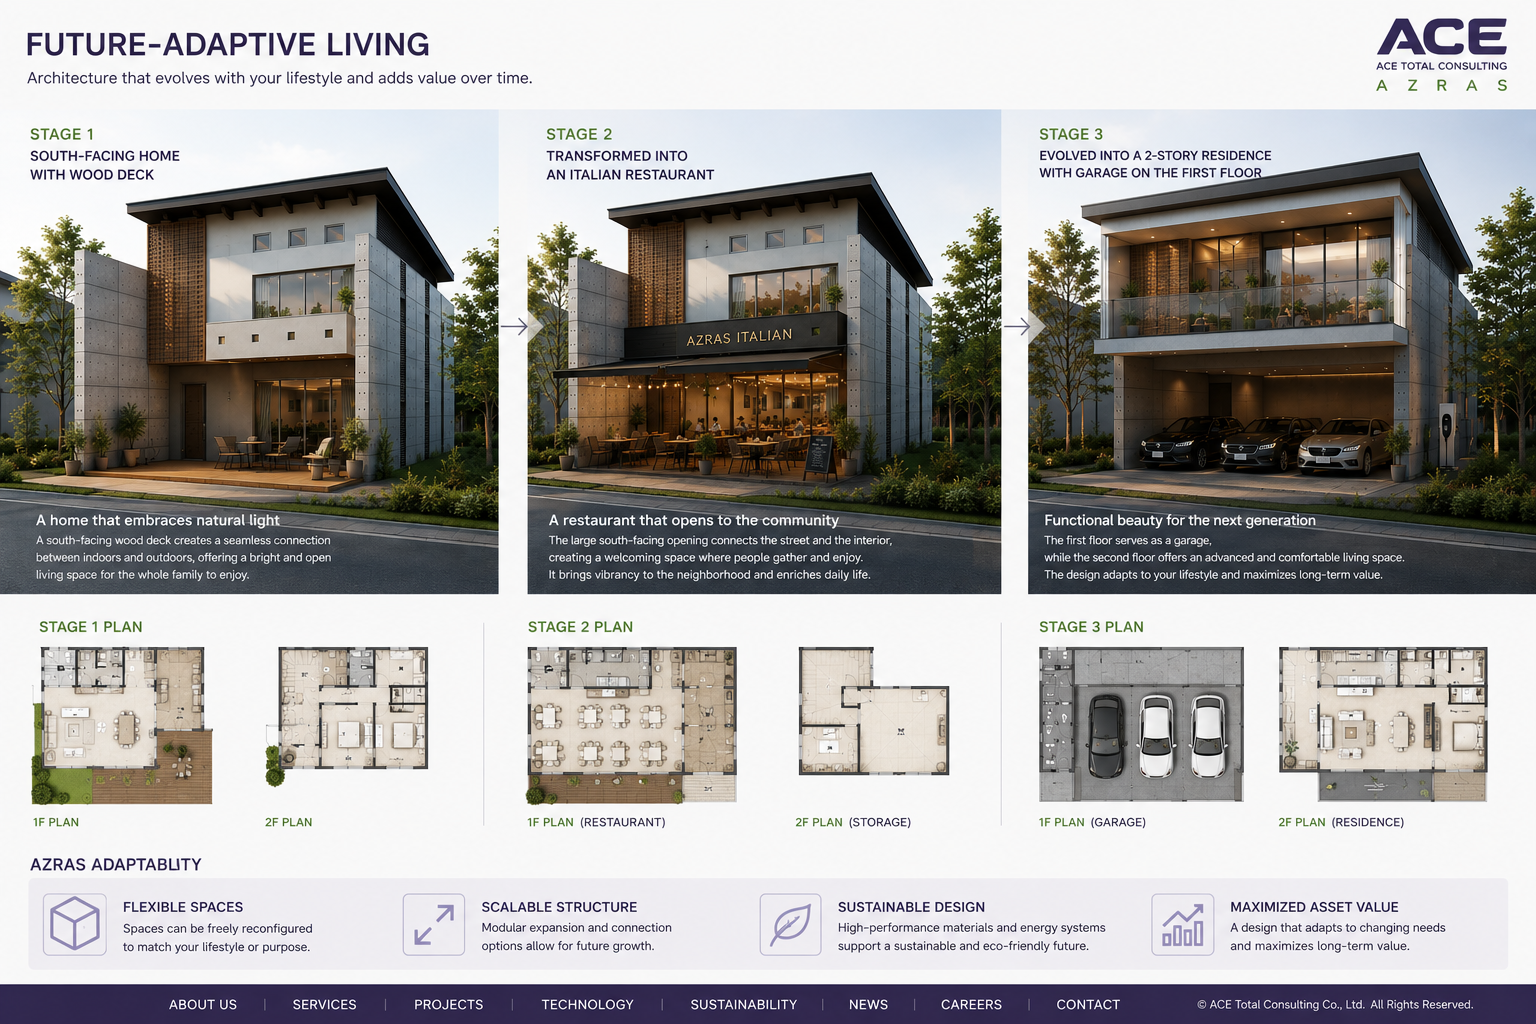
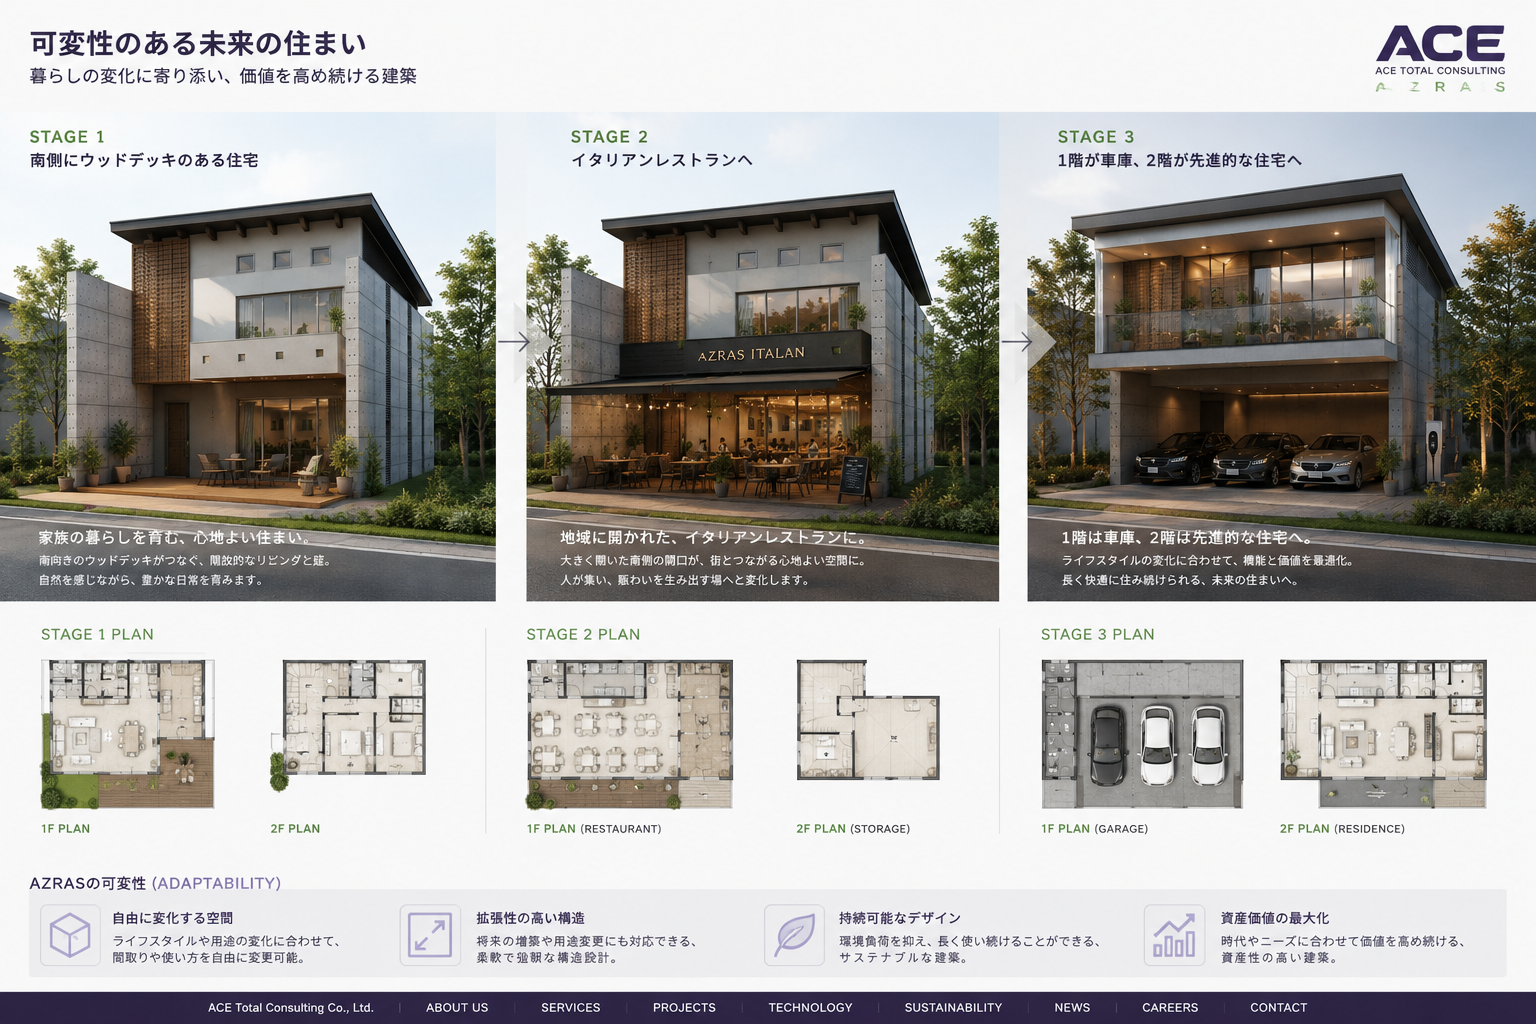
Add files via upload

diff --git a/index.html b/index.html
@@ -3,89 +3,138 @@
 <head>
   <meta charset="utf-8" />
   <meta name="viewport" content="width=device-width, initial-scale=1" />
-  <title>ACE Total Consulting | AZRAS</title>
-  <meta name="description" content="ACE Total Consulting introduces AZRAS: Open-Core Architecture · Adaptive Zero-Rebuild Asset System." />
+  <title>ACE Comprehensive Consulting | AZRAS</title>
+  <meta name="description" content="ACE Comprehensive Consulting introduces AZRAS: Open-Core Architecture and Adaptive Zero-Rebuild Asset System." />
+  <meta property="og:title" content="ACE Comprehensive Consulting | AZRAS" />
+  <meta property="og:description" content="Designing the Future through architecture, construction, estate and energy consulting." />
+  <meta property="og:image" content="assets/hero-en.png" />
+  <link rel="preload" as="image" href="assets/hero-en.png" />
   <link rel="stylesheet" href="style.css" />
 </head>
 <body>
-  <header class="site-header">
-    <a class="brand" href="#top" aria-label="ACE Total Consulting home">
-      <img src="assets/ace-logo.jpg" alt="ACE" />
-      <span>ACE Total Consulting</span>
+  <header class="site-header" id="top">
+    <a class="brand" href="#top" aria-label="ACE Comprehensive Consulting home">
+      <img src="assets/ace-logo.jpg" alt="ACE logo" />
+      <span>ACE Comprehensive Consulting</span>
     </a>
-    <nav class="nav" aria-label="Main navigation">
+
+    <button class="menu-button" type="button" aria-label="Open menu" aria-controls="main-nav" aria-expanded="false">
+      <span></span><span></span><span></span>
+    </button>
+
+    <nav class="nav" id="main-nav" aria-label="Main navigation">
       <a href="#about" data-en="About" data-ja="会社概要">About</a>
+      <a href="#vision" data-en="Vision" data-ja="ビジョン">Vision</a>
       <a href="#azras" data-en="AZRAS" data-ja="AZRAS">AZRAS</a>
       <a href="#projects" data-en="Projects" data-ja="実績・構想">Projects</a>
       <a href="#documents" data-en="Documents" data-ja="資料">Documents</a>
       <a href="#contact" data-en="Contact" data-ja="お問い合わせ">Contact</a>
     </nav>
+
     <div class="lang-switch" aria-label="Language switch">
-      <button class="active" data-lang="en">EN</button>
-      <button data-lang="ja">JP</button>
+      <button class="active" data-lang="en" type="button">EN</button>
+      <button data-lang="ja" type="button">JP</button>
     </div>
   </header>
 
-  <main id="top">
+  <main>
     <section class="hero" aria-label="First view">
-      <picture>
-        <source media="(max-width: 760px)" srcset="assets/hero-en.png" id="hero-mobile-source" />
-        <img id="hero-image" src="assets/hero-en.png" alt="ACE Total Consulting first view" />
-      </picture>
-      <div class="hero-overlay">
-        <p class="eyebrow">AZRAS</p>
+      <img id="hero-image" src="assets/hero-en.png" alt="ACE Comprehensive Consulting first view" />
+      <div class="hero-copy">
+        <p class="eyebrow">ACE × AZRAS</p>
         <h1 data-en="Designing the Future." data-ja="未来を、設計する。">Designing the Future.</h1>
         <p data-en="We maximize sustainable society and asset value through the power of technology and design." data-ja="持続可能な社会と資産価値の最大化を、テクノロジーとデザインの力で実現します。">We maximize sustainable society and asset value through the power of technology and design.</p>
+        <div class="hero-actions">
+          <a class="button primary" href="#documents" data-en="View Documents" data-ja="資料を見る">View Documents</a>
+          <a class="button ghost" href="#azras" data-en="Explore AZRAS" data-ja="AZRASを見る">Explore AZRAS</a>
+        </div>
       </div>
     </section>
 
     <section class="section intro" id="about">
       <div>
         <p class="eyebrow" data-en="About ACE" data-ja="ACEについて">About ACE</p>
-        <h2 data-en="Architecture, construction, estate and energy — integrated as one strategy." data-ja="建築・建設・不動産・エネルギーを、ひとつの戦略として統合する。">Architecture, construction, estate and energy — integrated as one strategy.</h2>
+        <h2 data-en="Architecture, construction, real estate and energy — integrated as one strategy." data-ja="建築・建設・不動産・エネルギーを、ひとつの戦略として統合する。">Architecture, construction, real estate and energy — integrated as one strategy.</h2>
       </div>
-      <p data-en="ACE Total Consulting develops architectural concepts that preserve long-term asset value, adapt to changing lifestyles, and support resilient, sustainable communities." data-ja="ACE総合コンサルは、長期的な資産価値を守り、暮らしの変化に対応し、持続可能で強靭な社会に貢献する建築コンセプトを提案します。">ACE Total Consulting develops architectural concepts that preserve long-term asset value, adapt to changing lifestyles, and support resilient, sustainable communities.</p>
+      <div class="lead-box">
+        <p data-en="ACE Comprehensive Consulting provides architectural design supervision, construction, real estate consulting and energy consulting from a long-term asset-value perspective." data-ja="ACE総合コンサルは、建築設計監理・建設・不動産コンサルティング・エネルギーコンサルティングを、長期的な資産価値の視点から統合的に提案します。">ACE Comprehensive Consulting provides architectural design supervision, construction, real estate consulting and energy consulting from a long-term asset-value perspective.</p>
+        <dl>
+          <div><dt data-en="Company" data-ja="会社名">Company</dt><dd data-en="ACE Comprehensive Consulting Co., Ltd." data-ja="株式会社 ACE総合コンサル">ACE Comprehensive Consulting Co., Ltd.</dd></div>
+          <div><dt data-en="Location" data-ja="所在地">Location</dt><dd data-en="Kasugai City, Aichi, Japan" data-ja="日本国 愛知県春日井市">Kasugai City, Aichi, Japan</dd></div>
+          <div><dt data-en="Email" data-ja="メール">Email</dt><dd><a href="mailto:[email redacted]">[email redacted]</a></dd></div>
+        </dl>
+      </div>
     </section>
 
-    <section class="section cards" id="azras">
-      <article>
-        <h3 data-en="Open-Core Architecture" data-ja="オープンコア・アーキテクチャ">Open-Core Architecture</h3>
-        <p data-en="A durable RC core is separated from replaceable infill modules, allowing the building to evolve without full reconstruction." data-ja="耐久性の高いRCコアと交換可能なインフィルを分離し、全体の建て替えに頼らず建物を進化させます。">A durable RC core is separated from replaceable infill modules, allowing the building to evolve without full reconstruction.</p>
-      </article>
-      <article>
-        <h3 data-en="Adaptive Asset System" data-ja="可変する資産システム">Adaptive Asset System</h3>
-        <p data-en="Homes, restaurants, garages and next-generation residences can be planned as stages of one asset lifecycle." data-ja="住宅、レストラン、車庫付き先進住宅などを、ひとつの資産ライフサイクルとして計画できます。">Homes, restaurants, garages and next-generation residences can be planned as stages of one asset lifecycle.</p>
-      </article>
-      <article>
-        <h3 data-en="Sustainable Value" data-ja="持続する価値">Sustainable Value</h3>
-        <p data-en="Designed for long life, easier renewal, and international adaptation across urban and suburban markets." data-ja="長寿命化、更新の容易さ、海外市場への適応を見据えた建築システムです。">Designed for long life, easier renewal, and international adaptation across urban and suburban markets.</p>
-      </article>
+    <section class="section statement" id="vision">
+      <p class="eyebrow" data-en="Vision" data-ja="ビジョン">Vision</p>
+      <h2 data-en="Pioneering architecture for the era of AGI and Quantum Computing." data-ja="AI・量子コンピューター時代を生きる、未来の建築思想をカタチに。">Pioneering architecture for the era of AGI and Quantum Computing.</h2>
+      <p data-en="We propose and implement next-generation architectural philosophies to maximize long-term asset value and sustainable societies in the rapidly evolving age of advanced AI and quantum technology." data-ja="人工知能や量子技術がもたらす激変の時代において、次世代の建築思想を提案・実装し、持続可能な社会と色褪せない資産価値の最大化を追求します。">We propose and implement next-generation architectural philosophies to maximize long-term asset value and sustainable societies in the rapidly evolving age of advanced AI and quantum technology.</p>
     </section>
 
-    <section class="section" id="projects">
+    <section class="section" id="azras">
+      <div class="section-title">
+        <p class="eyebrow">AZRAS</p>
+        <h2 data-en="Open-Core Architecture · Adaptive Zero-Rebuild Asset System" data-ja="オープンコア・アーキテクチャ · 可変型ゼロ・リビルド資産システム">Open-Core Architecture · Adaptive Zero-Rebuild Asset System</h2>
+      </div>
+      <div class="cards">
+        <article>
+          <span class="card-number">01</span>
+          <h3 data-en="Permanent RC Core" data-ja="半永久的なRCコア">Permanent RC Core</h3>
+          <p data-en="The robust RC structure and core utility paths function as a long-life urban asset." data-ja="強靭なRC構造体と基幹配管経路を、長寿命の都市資産として活用します。">The robust RC structure and core utility paths function as a long-life urban asset.</p>
+        </article>
+        <article>
+          <span class="card-number">02</span>
+          <h3 data-en="Replaceable Modules" data-ja="交換可能なモジュール">Replaceable Modules</h3>
+          <p data-en="Interior spaces and facades can be inserted, removed or reconfigured without altering the main structure." data-ja="内部空間や外壁を、構造体を傷つけることなく挿入・撤去・再構成できます。">Interior spaces and facades can be inserted, removed or reconfigured without altering the main structure.</p>
+        </article>
+        <article>
+          <span class="card-number">03</span>
+          <h3 data-en="Zero-Rebuild Future" data-ja="ゼロ・リビルドの未来">Zero-Rebuild Future</h3>
+          <p data-en="A building can evolve from housing to commercial use and mixed-use facilities across its lifecycle." data-ja="住宅から商業施設、複合型施設へと、建物のライフサイクルに合わせて進化できます。">A building can evolve from housing to commercial use and mixed-use facilities across its lifecycle.</p>
+        </article>
+      </div>
+    </section>
+
+    <section class="section projects" id="projects">
       <div class="section-title">
         <p class="eyebrow" data-en="Projects & Concepts" data-ja="実績・構想">Projects & Concepts</p>
         <h2 data-en="From residential life to adaptive mixed-use futures." data-ja="住宅から、用途が変化する未来の建築へ。">From residential life to adaptive mixed-use futures.</h2>
       </div>
       <div class="gallery">
-        <figure><img src="assets/project-house.jpg" alt="AZRAS house concept"><figcaption data-en="South-facing home with wood deck" data-ja="南側にウッドデッキのある住宅">South-facing home with wood deck</figcaption></figure>
-        <figure><img src="assets/project-terrace-1.jpg" alt="Terrace house"><figcaption data-en="Terrace house concept" data-ja="テラスハウス構想">Terrace house concept</figcaption></figure>
-        <figure><img src="assets/adaptability-board.png" alt="Adaptive use board"><figcaption data-en="Adaptive transformation stages" data-ja="可変性のある用途転換">Adaptive transformation stages</figcaption></figure>
+        <figure><img src="assets/project-house.jpg" alt="South-facing home with wood deck"><figcaption data-en="South-facing home with wood deck" data-ja="南側にウッドデッキのある住宅">South-facing home with wood deck</figcaption></figure>
+        <figure><img src="assets/project-terrace-1.jpg" alt="Terrace house concept"><figcaption data-en="Terrace house concept" data-ja="テラスハウス構想">Terrace house concept</figcaption></figure>
+        <figure><img src="assets/project-terrace-2.jpg" alt="Advanced terrace house concept"><figcaption data-en="Advanced adaptable housing" data-ja="可変型先進住宅">Advanced adaptable housing</figcaption></figure>
       </div>
     </section>
 
     <section class="section documents" id="documents">
       <div class="section-title">
         <p class="eyebrow" data-en="Documents" data-ja="資料">Documents</p>
-        <h2 data-en="Technical data and published materials" data-ja="技術資料・公開資料">Technical data and published materials</h2>
+        <h2 data-en="Download official PDFs" data-ja="公式PDF資料ダウンロード">Download official PDFs</h2>
+        <p data-en="English documents are prioritized for global readers. Japanese versions are also available." data-ja="海外向けに英語版を先に配置し、日本語版も併せて掲載しています。">English documents are prioritized for global readers. Japanese versions are also available.</p>
       </div>
-      <div class="doc-list">
-        <a href="01_Architectural_Drawings.pdf">01 Architectural Drawings</a>
-        <a href="02_RC_Structural_Drawings.pdf">02 RC Structural Drawings</a>
-        <a href="03_RC_Structure_Analysis.pdf">03 RC Structure Analysis</a>
-        <a href="05_Dynamic_Seismic_Diagnosis_System_Test_Report_Beik.pdf">05 Dynamic Seismic Diagnosis System Test Report</a>
-        <a href="06_New Market Creation Report – June 2005.pdf">06 New Market Creation Report — June 2005</a>
-        <a href="12_Panelization of Features.pdf">12 Panelization of Features</a>
+      <div class="doc-grid">
+        <a class="doc-card featured" href="docs/azras-system_en.pdf" target="_blank" rel="noopener">
+          <span>EN</span>
+          <h3>AZRAS Architectural System</h3>
+          <p>Open-Core Architecture & Adaptive Zero-Rebuild Asset System</p>
+        </a>
+        <a class="doc-card" href="docs/company-profile_en.pdf" target="_blank" rel="noopener">
+          <span>EN</span>
+          <h3>Company Profile</h3>
+          <p>ACE Comprehensive Consulting corporate overview and founder background.</p>
+        </a>
+        <a class="doc-card" href="docs/azras-system_jp.pdf" target="_blank" rel="noopener">
+          <span>JP</span>
+          <h3>AZRAS Architectural System</h3>
+          <p>AZRAS建築システム 日本語版</p>
+        </a>
+        <a class="doc-card" href="docs/company-profile_jp.pdf" target="_blank" rel="noopener">
+          <span>JP</span>
+          <h3>Company Profile</h3>
+          <p>ACE総合コンサル 会社概要 日本語版</p>
+        </a>
       </div>
     </section>
 
@@ -93,15 +142,17 @@
       <div>
         <p class="eyebrow" data-en="Contact" data-ja="お問い合わせ">Contact</p>
         <h2 data-en="For commercial licensing proposals and large-scale project discussions." data-ja="商業ライセンス提案・大規模プロジェクトのご相談について。">For commercial licensing proposals and large-scale project discussions.</h2>
+        <p data-en="2-18-7 Matsukawado-cho, Kasugai City, Aichi 486-0932 Japan" data-ja="〒486-0932 日本国愛知県春日井市松河戸町2丁目18-7">2-18-7 Matsukawado-cho, Kasugai City, Aichi 486-0932 Japan</p>
       </div>
-      <a class="button" href="mailto:[email redacted]">[email redacted]</a>
+      <a class="button primary" href="mailto:[email redacted]">[email redacted]</a>
     </section>
   </main>
 
   <footer>
-    <span>© ACE Total Consulting Co., Ltd.</span>
+    <span>© ACE Comprehensive Consulting Co., Ltd.</span>
     <span>AZRAS — Open-Core Architecture · Adaptive Zero-Rebuild Asset System</span>
   </footer>
+
   <script src="script.js"></script>
 </body>
 </html>

diff --git a/script.js b/script.js
@@ -1,5 +1,38 @@
-const state={lang:'en'};
-const hero={en:'assets/hero-en.png',ja:'assets/hero-ja.png'};
-function setLang(lang){state.lang=lang;document.documentElement.lang=lang;document.querySelectorAll('[data-en]').forEach(el=>{el.textContent=el.dataset[lang]});document.querySelectorAll('.lang-switch button').forEach(b=>b.classList.toggle('active',b.dataset.lang===lang));const img=document.getElementById('hero-image');const source=document.getElementById('hero-mobile-source');img.src=hero[lang];source.srcset=hero[lang];img.alt=lang==='en'?'ACE Total Consulting first view':'ACE総合コンサル ファーストビュー'}
-document.querySelectorAll('.lang-switch button').forEach(btn=>btn.addEventListener('click',()=>setLang(btn.dataset.lang)));
+const state = { lang: 'en' };
+const hero = { en: 'assets/hero-en.png', ja: 'assets/hero-ja.png' };
+
+function setLang(lang) {
+  state.lang = lang;
+  document.documentElement.lang = lang;
+  document.querySelectorAll('[data-en]').forEach((el) => {
+    el.textContent = el.dataset[lang];
+  });
+  document.querySelectorAll('.lang-switch button').forEach((button) => {
+    button.classList.toggle('active', button.dataset.lang === lang);
+  });
+  const heroImage = document.getElementById('hero-image');
+  heroImage.src = hero[lang];
+  heroImage.alt = lang === 'en'
+    ? 'ACE Comprehensive Consulting first view'
+    : 'ACE総合コンサル ファーストビュー';
+}
+
+document.querySelectorAll('.lang-switch button').forEach((button) => {
+  button.addEventListener('click', () => setLang(button.dataset.lang));
+});
+
+const menuButton = document.querySelector('.menu-button');
+const nav = document.querySelector('#main-nav');
+menuButton.addEventListener('click', () => {
+  const open = nav.classList.toggle('open');
+  menuButton.setAttribute('aria-expanded', open ? 'true' : 'false');
+});
+
+document.querySelectorAll('#main-nav a').forEach((link) => {
+  link.addEventListener('click', () => {
+    nav.classList.remove('open');
+    menuButton.setAttribute('aria-expanded', 'false');
+  });
+});
+
 setLang('en');

diff --git a/style.css b/style.css
@@ -1,1 +1,18 @@
-:root{--purple:#4b1f72;--green:#5aa22b;--ink:#111827;--muted:#667085;--line:#e6e8ee;--bg:#f7f8fa}*{box-sizing:border-box}html{scroll-behavior:smooth}body{margin:0;font-family:Inter,system-ui,-apple-system,BlinkMacSystemFont,"Segoe UI",sans-serif;color:var(--ink);background:#fff}.site-header{position:sticky;top:0;z-index:10;display:flex;align-items:center;gap:28px;padding:18px 4vw;background:rgba(255,255,255,.88);backdrop-filter:blur(18px);border-bottom:1px solid var(--line)}.brand{display:flex;align-items:center;gap:12px;text-decoration:none;color:var(--ink);font-weight:800;text-transform:uppercase;letter-spacing:.08em}.brand img{height:42px;width:auto}.nav{margin-left:auto;display:flex;gap:28px}.nav a{color:#111;text-decoration:none;font-size:13px;font-weight:700;text-transform:uppercase;letter-spacing:.06em}.lang-switch{display:flex;gap:6px}.lang-switch button{border:1px solid var(--line);background:#fff;padding:8px 10px;border-radius:999px;font-weight:800;cursor:pointer}.lang-switch button.active{background:var(--purple);border-color:var(--purple);color:#fff}.hero{position:relative;min-height:78vh;overflow:hidden;background:#eef2f6}.hero img{width:100%;height:78vh;object-fit:cover;object-position:center;display:block}.hero:after{content:"";position:absolute;inset:0;background:linear-gradient(90deg,rgba(0,0,0,.48),rgba(0,0,0,.08) 42%,rgba(255,255,255,.06))}.hero-overlay{position:absolute;z-index:2;left:5vw;bottom:10vh;max-width:520px;color:#fff;text-shadow:0 6px 24px rgba(0,0,0,.35)}.eyebrow{margin:0 0 12px;color:var(--green);text-transform:uppercase;letter-spacing:.12em;font-weight:900}.hero-overlay .eyebrow{color:#d5ff9c}.hero h1{font-size:clamp(44px,6vw,92px);line-height:.92;margin:0 0 18px;text-transform:uppercase;letter-spacing:-.04em}.hero p{font-size:clamp(16px,1.6vw,22px);line-height:1.65;margin:0}.section{padding:76px 5vw;border-bottom:1px solid var(--line)}.intro{display:grid;grid-template-columns:1fr 1fr;gap:56px;align-items:end}.section h2{font-size:clamp(30px,3vw,54px);line-height:1.05;margin:0;letter-spacing:-.03em}.section p{color:var(--muted);line-height:1.9}.cards{display:grid;grid-template-columns:repeat(3,1fr);gap:22px;background:var(--bg)}.cards article{background:#fff;border:1px solid var(--line);border-radius:24px;padding:32px;box-shadow:0 20px 60px rgba(17,24,39,.06)}.cards h3{font-size:24px;margin:0 0 10px;color:var(--purple)}.section-title{margin-bottom:28px}.gallery{display:grid;grid-template-columns:repeat(3,1fr);gap:22px}.gallery figure{margin:0;border-radius:22px;overflow:hidden;background:#111;box-shadow:0 20px 60px rgba(17,24,39,.10)}.gallery img{width:100%;height:260px;object-fit:cover;display:block}.gallery figcaption{padding:18px 20px;color:#fff;font-weight:800}.documents{background:#fff}.doc-list{display:grid;grid-template-columns:repeat(2,1fr);gap:12px}.doc-list a{display:block;padding:18px 20px;border:1px solid var(--line);border-radius:16px;text-decoration:none;color:var(--ink);font-weight:800;background:#fff}.doc-list a:hover{border-color:var(--green);color:var(--green)}.contact{display:flex;justify-content:space-between;gap:28px;align-items:center;background:linear-gradient(135deg,#f7f4fb,#f3f8ef)}.button{display:inline-flex;align-items:center;justify-content:center;padding:16px 22px;border-radius:999px;background:var(--purple);color:#fff;text-decoration:none;font-weight:900}footer{display:flex;justify-content:space-between;gap:20px;padding:28px 5vw;background:#111827;color:#fff;font-size:13px}@media(max-width:860px){.site-header{align-items:flex-start;flex-wrap:wrap}.nav{order:3;width:100%;overflow:auto;gap:18px}.hero,.hero img{height:70vh;min-height:70vh}.intro,.cards,.gallery,.doc-list{grid-template-columns:1fr}.contact,footer{display:block}.contact .button{margin-top:18px}.gallery img{height:220px}}
+:root{
+  --purple:#4b1f72;
+  --purple-dark:#321151;
+  --green:#5aa22b;
+  --green-dark:#287a23;
+  --ink:#111827;
+  --muted:#667085;
+  --line:#e6e8ee;
+  --bg:#f7f8fa;
+  --white:#fff;
+}
+*{box-sizing:border-box}
+html{scroll-behavior:smooth}
+body{margin:0;font-family:Inter,system-ui,-apple-system,BlinkMacSystemFont,"Segoe UI",sans-serif;color:var(--ink);background:#fff}
+a{color:inherit}.site-header{position:sticky;top:0;z-index:50;display:flex;align-items:center;gap:26px;padding:14px 4vw;background:rgba(255,255,255,.9);backdrop-filter:blur(18px);border-bottom:1px solid rgba(230,232,238,.9)}.brand{display:flex;align-items:center;gap:12px;text-decoration:none;color:var(--ink);font-weight:900;text-transform:uppercase;letter-spacing:.06em;white-space:nowrap}.brand img{height:42px;width:auto}.brand span{font-size:12px}.nav{margin-left:auto;display:flex;gap:26px}.nav a{color:#111;text-decoration:none;font-size:12px;font-weight:800;text-transform:uppercase;letter-spacing:.06em}.nav a:hover{color:var(--purple)}.lang-switch{display:flex;gap:6px}.lang-switch button{border:1px solid var(--line);background:#fff;padding:8px 10px;border-radius:999px;font-weight:900;cursor:pointer}.lang-switch button.active{background:var(--purple);border-color:var(--purple);color:#fff}.menu-button{display:none;margin-left:auto;width:42px;height:38px;border:0;background:transparent;cursor:pointer}.menu-button span{display:block;width:27px;height:2px;background:#111;margin:6px auto}.hero{position:relative;min-height:82vh;overflow:hidden;background:#eef2f6}.hero img{width:100%;height:82vh;object-fit:cover;object-position:center;display:block}.hero:after{content:"";position:absolute;inset:0;background:linear-gradient(90deg,rgba(0,0,0,.56),rgba(0,0,0,.14) 45%,rgba(255,255,255,.05))}.hero-copy{position:absolute;z-index:2;left:5vw;bottom:10vh;max-width:560px;color:#fff;text-shadow:0 8px 28px rgba(0,0,0,.38)}.eyebrow{margin:0 0 12px;color:var(--green);text-transform:uppercase;letter-spacing:.14em;font-weight:950}.hero-copy .eyebrow{color:#d9ffae}.hero h1{font-size:clamp(46px,6vw,96px);line-height:.92;margin:0 0 18px;text-transform:uppercase;letter-spacing:-.05em}.hero p{font-size:clamp(16px,1.55vw,22px);line-height:1.65;margin:0}.hero-actions{display:flex;gap:12px;flex-wrap:wrap;margin-top:26px}.button{display:inline-flex;align-items:center;justify-content:center;padding:14px 20px;border-radius:999px;text-decoration:none;font-weight:950;letter-spacing:.02em}.button.primary{background:var(--purple);color:#fff;box-shadow:0 18px 45px rgba(75,31,114,.25)}.button.ghost{background:rgba(255,255,255,.14);border:1px solid rgba(255,255,255,.52);color:#fff}.section{padding:78px 5vw;border-bottom:1px solid var(--line)}.intro{display:grid;grid-template-columns:1fr 1fr;gap:56px;align-items:start}.section h2{font-size:clamp(30px,3.2vw,56px);line-height:1.05;margin:0;letter-spacing:-.035em}.section p{color:var(--muted);line-height:1.85}.lead-box{border:1px solid var(--line);border-radius:28px;padding:30px;background:#fff;box-shadow:0 22px 70px rgba(17,24,39,.06)}dl{margin:22px 0 0;border-top:1px solid var(--line)}dl div{display:grid;grid-template-columns:120px 1fr;gap:12px;padding:14px 0;border-bottom:1px solid var(--line)}dt{font-size:12px;text-transform:uppercase;letter-spacing:.1em;font-weight:900;color:var(--purple)}dd{margin:0;color:#1f2937}.statement{background:linear-gradient(135deg,#fbfaff,#f2f8ee);text-align:center}.statement h2{max-width:980px;margin:0 auto}.statement p:not(.eyebrow){max-width:880px;margin:22px auto 0;font-size:18px}.section-title{max-width:920px;margin-bottom:32px}.cards{display:grid;grid-template-columns:repeat(3,1fr);gap:22px}.cards article{background:#fff;border:1px solid var(--line);border-radius:28px;padding:32px;box-shadow:0 22px 70px rgba(17,24,39,.06)}.card-number{display:inline-flex;align-items:center;justify-content:center;width:42px;height:42px;border-radius:50%;background:#f1eaf8;color:var(--purple);font-weight:950;margin-bottom:18px}.cards h3{font-size:24px;margin:0 0 10px;color:var(--purple)}.projects{background:var(--bg)}.gallery{display:grid;grid-template-columns:repeat(3,1fr);gap:22px}.gallery figure{margin:0;border-radius:24px;overflow:hidden;background:#111;box-shadow:0 20px 60px rgba(17,24,39,.12)}.gallery img{width:100%;height:285px;object-fit:cover;display:block;transition:transform .55s ease}.gallery figure:hover img{transform:scale(1.04)}.gallery figcaption{padding:18px 20px;color:#fff;font-weight:900}.documents{background:#fff}.doc-grid{display:grid;grid-template-columns:repeat(4,1fr);gap:16px}.doc-card{display:block;min-height:230px;padding:24px;border:1px solid var(--line);border-radius:24px;text-decoration:none;background:#fff;box-shadow:0 18px 55px rgba(17,24,39,.05);transition:.25s ease}.doc-card:hover{transform:translateY(-4px);border-color:var(--green);box-shadow:0 26px 80px rgba(17,24,39,.12)}.doc-card span{display:inline-flex;align-items:center;justify-content:center;width:42px;height:42px;border-radius:50%;background:#edf7e8;color:var(--green-dark);font-weight:950}.doc-card h3{margin:28px 0 8px;color:var(--purple);font-size:21px;line-height:1.18}.doc-card p{margin:0;font-size:14px}.doc-card.featured{background:linear-gradient(135deg,#4b1f72,#2e0e4c);color:#fff}.doc-card.featured h3,.doc-card.featured p{color:#fff}.doc-card.featured span{background:rgba(255,255,255,.18);color:#d9ffae}.contact{display:flex;justify-content:space-between;gap:28px;align-items:center;background:linear-gradient(135deg,#f7f4fb,#f3f8ef)}footer{display:flex;justify-content:space-between;gap:20px;padding:28px 5vw;background:#111827;color:#fff;font-size:13px}
+@media(max-width:1080px){.doc-grid{grid-template-columns:repeat(2,1fr)}.nav{gap:16px}.brand span{display:none}}
+@media(max-width:860px){.site-header{align-items:center;flex-wrap:wrap}.menu-button{display:block}.nav{display:none;order:4;width:100%;padding-top:12px;grid-template-columns:1fr 1fr;gap:12px}.nav.open{display:grid}.nav a{padding:10px 0}.lang-switch{margin-left:auto}.hero,.hero img{height:72vh;min-height:72vh}.hero-copy{left:6vw;right:6vw;bottom:7vh}.hero h1{font-size:48px}.intro,.cards,.gallery,.doc-grid{grid-template-columns:1fr}.contact,footer{display:block}.contact .button{margin-top:18px}.gallery img{height:230px}dl div{grid-template-columns:1fr}.section{padding:58px 6vw}}
+@media(max-width:520px){.brand img{height:34px}.hero h1{font-size:40px}.hero p{font-size:15px}.hero-actions{display:block}.hero-actions .button{width:100%;margin-bottom:10px}.doc-card{min-height:auto}.section h2{font-size:30px}}